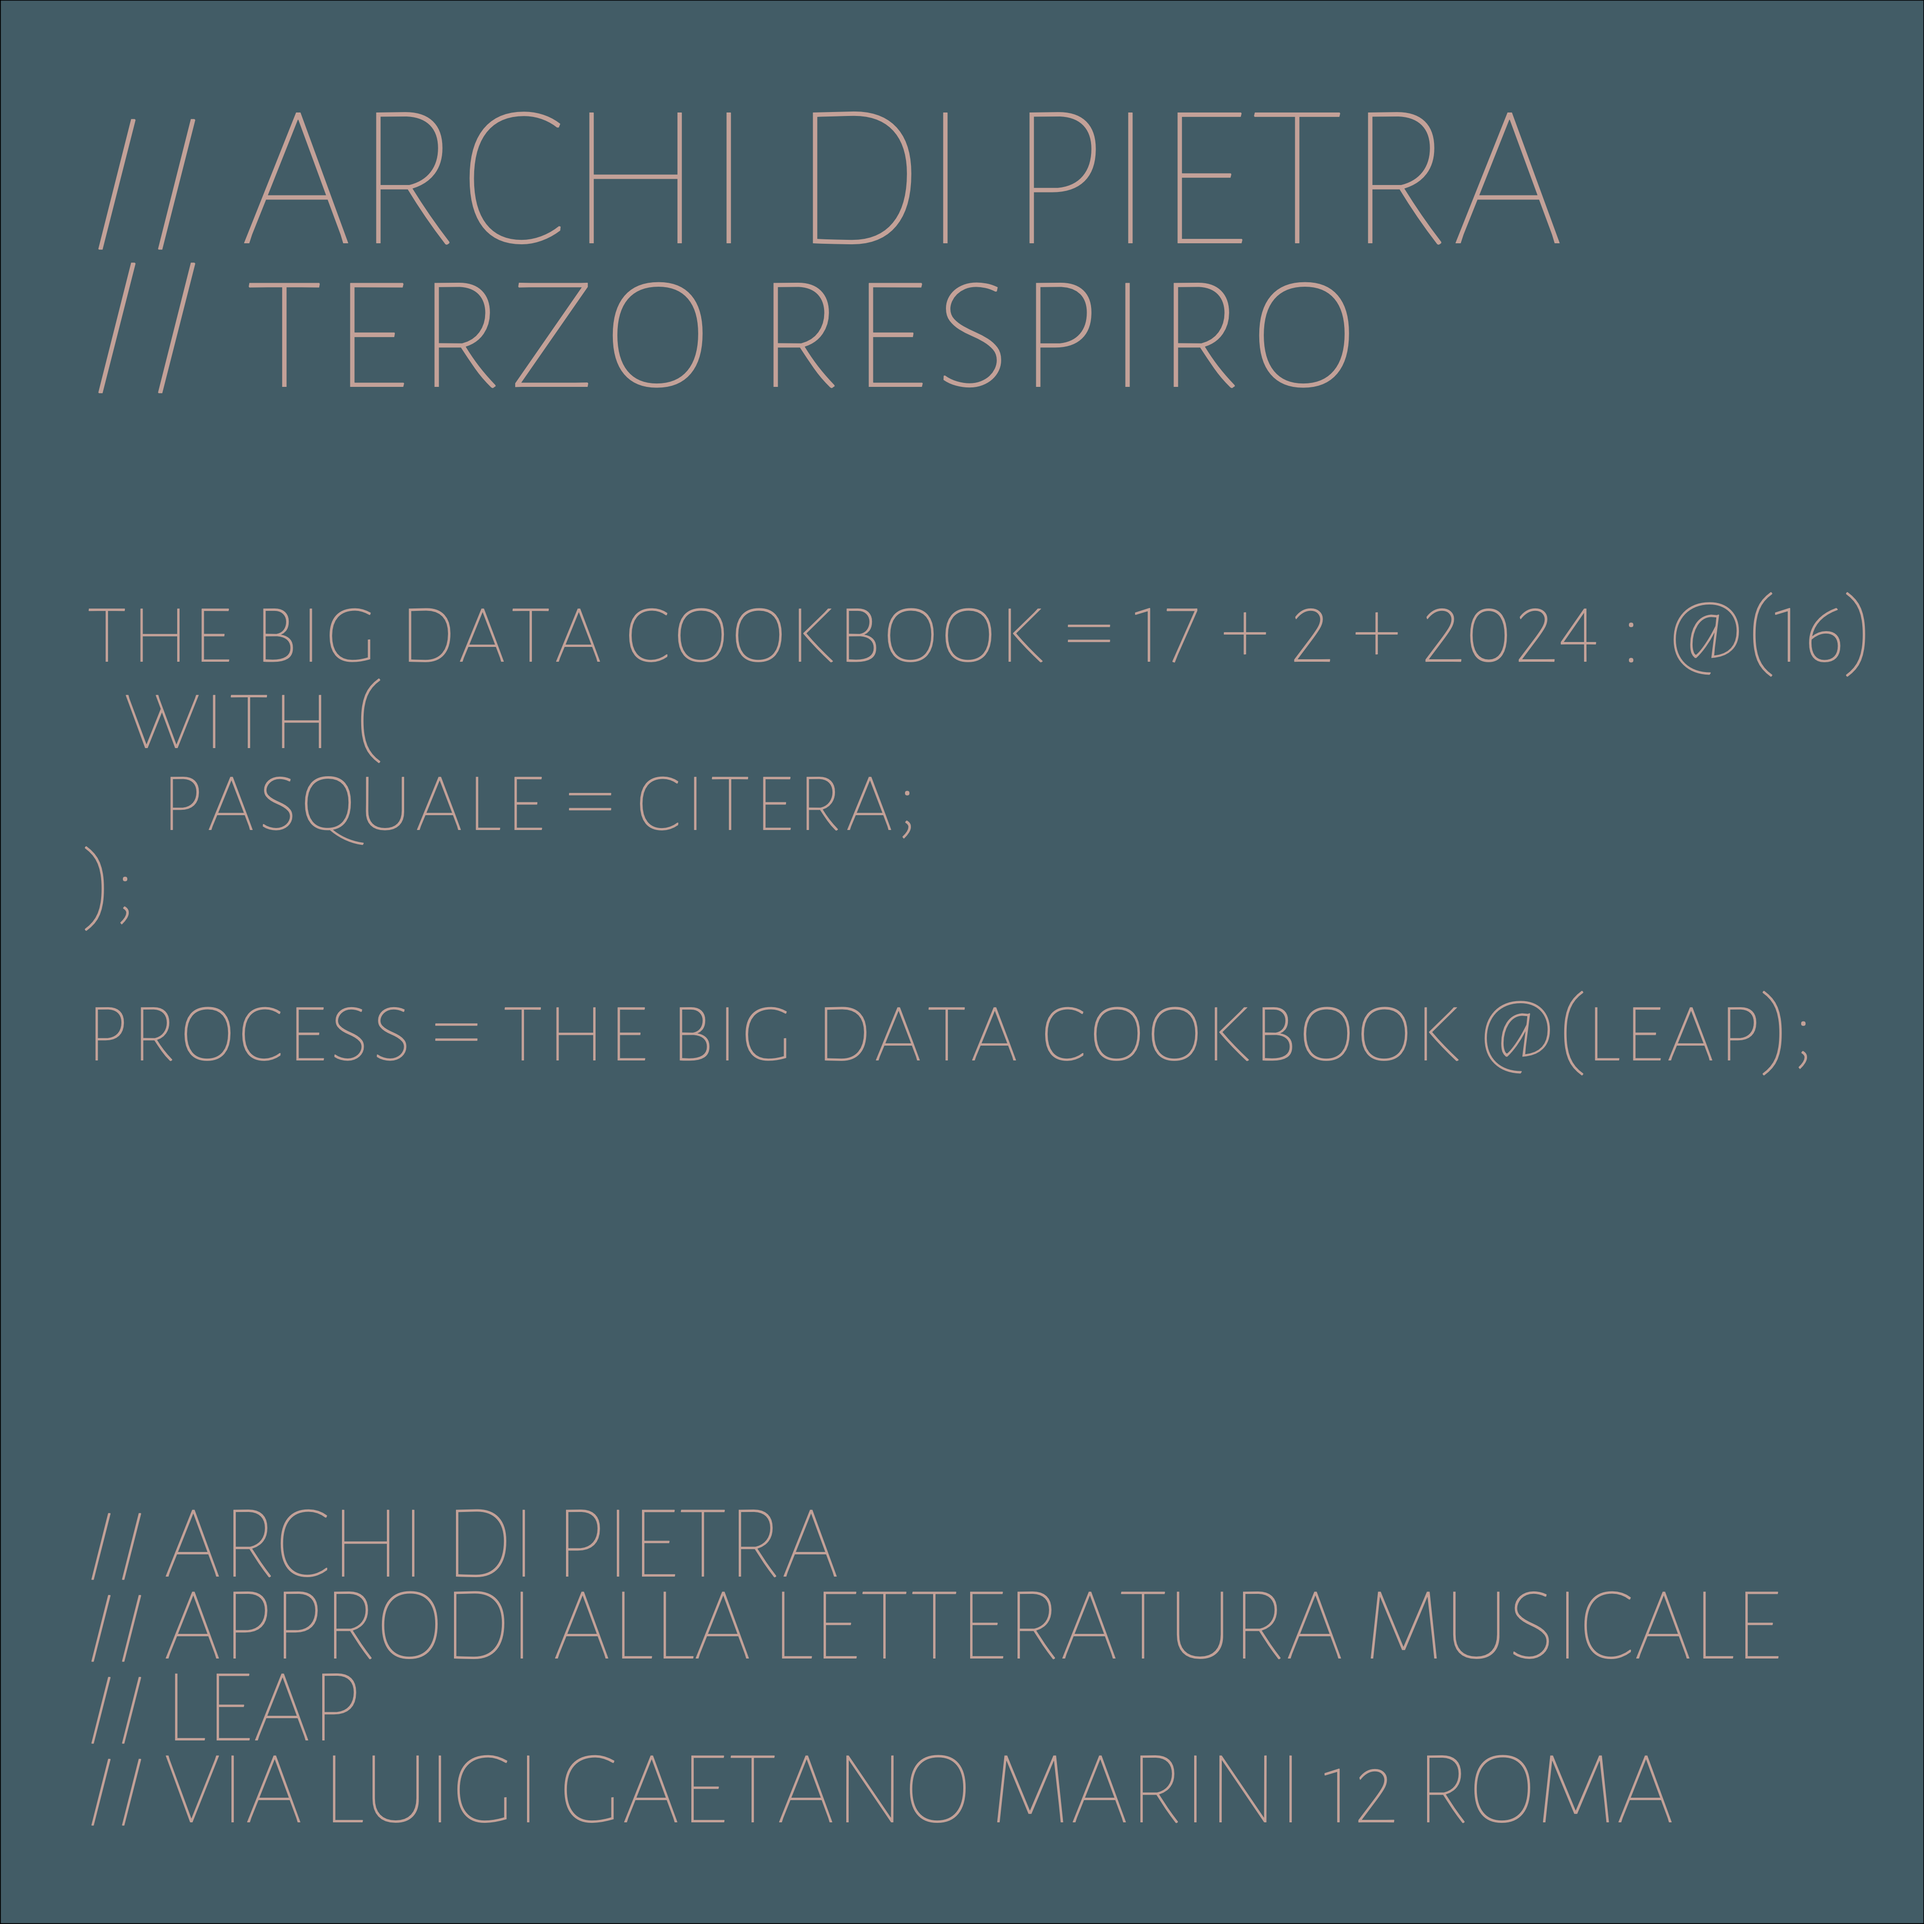
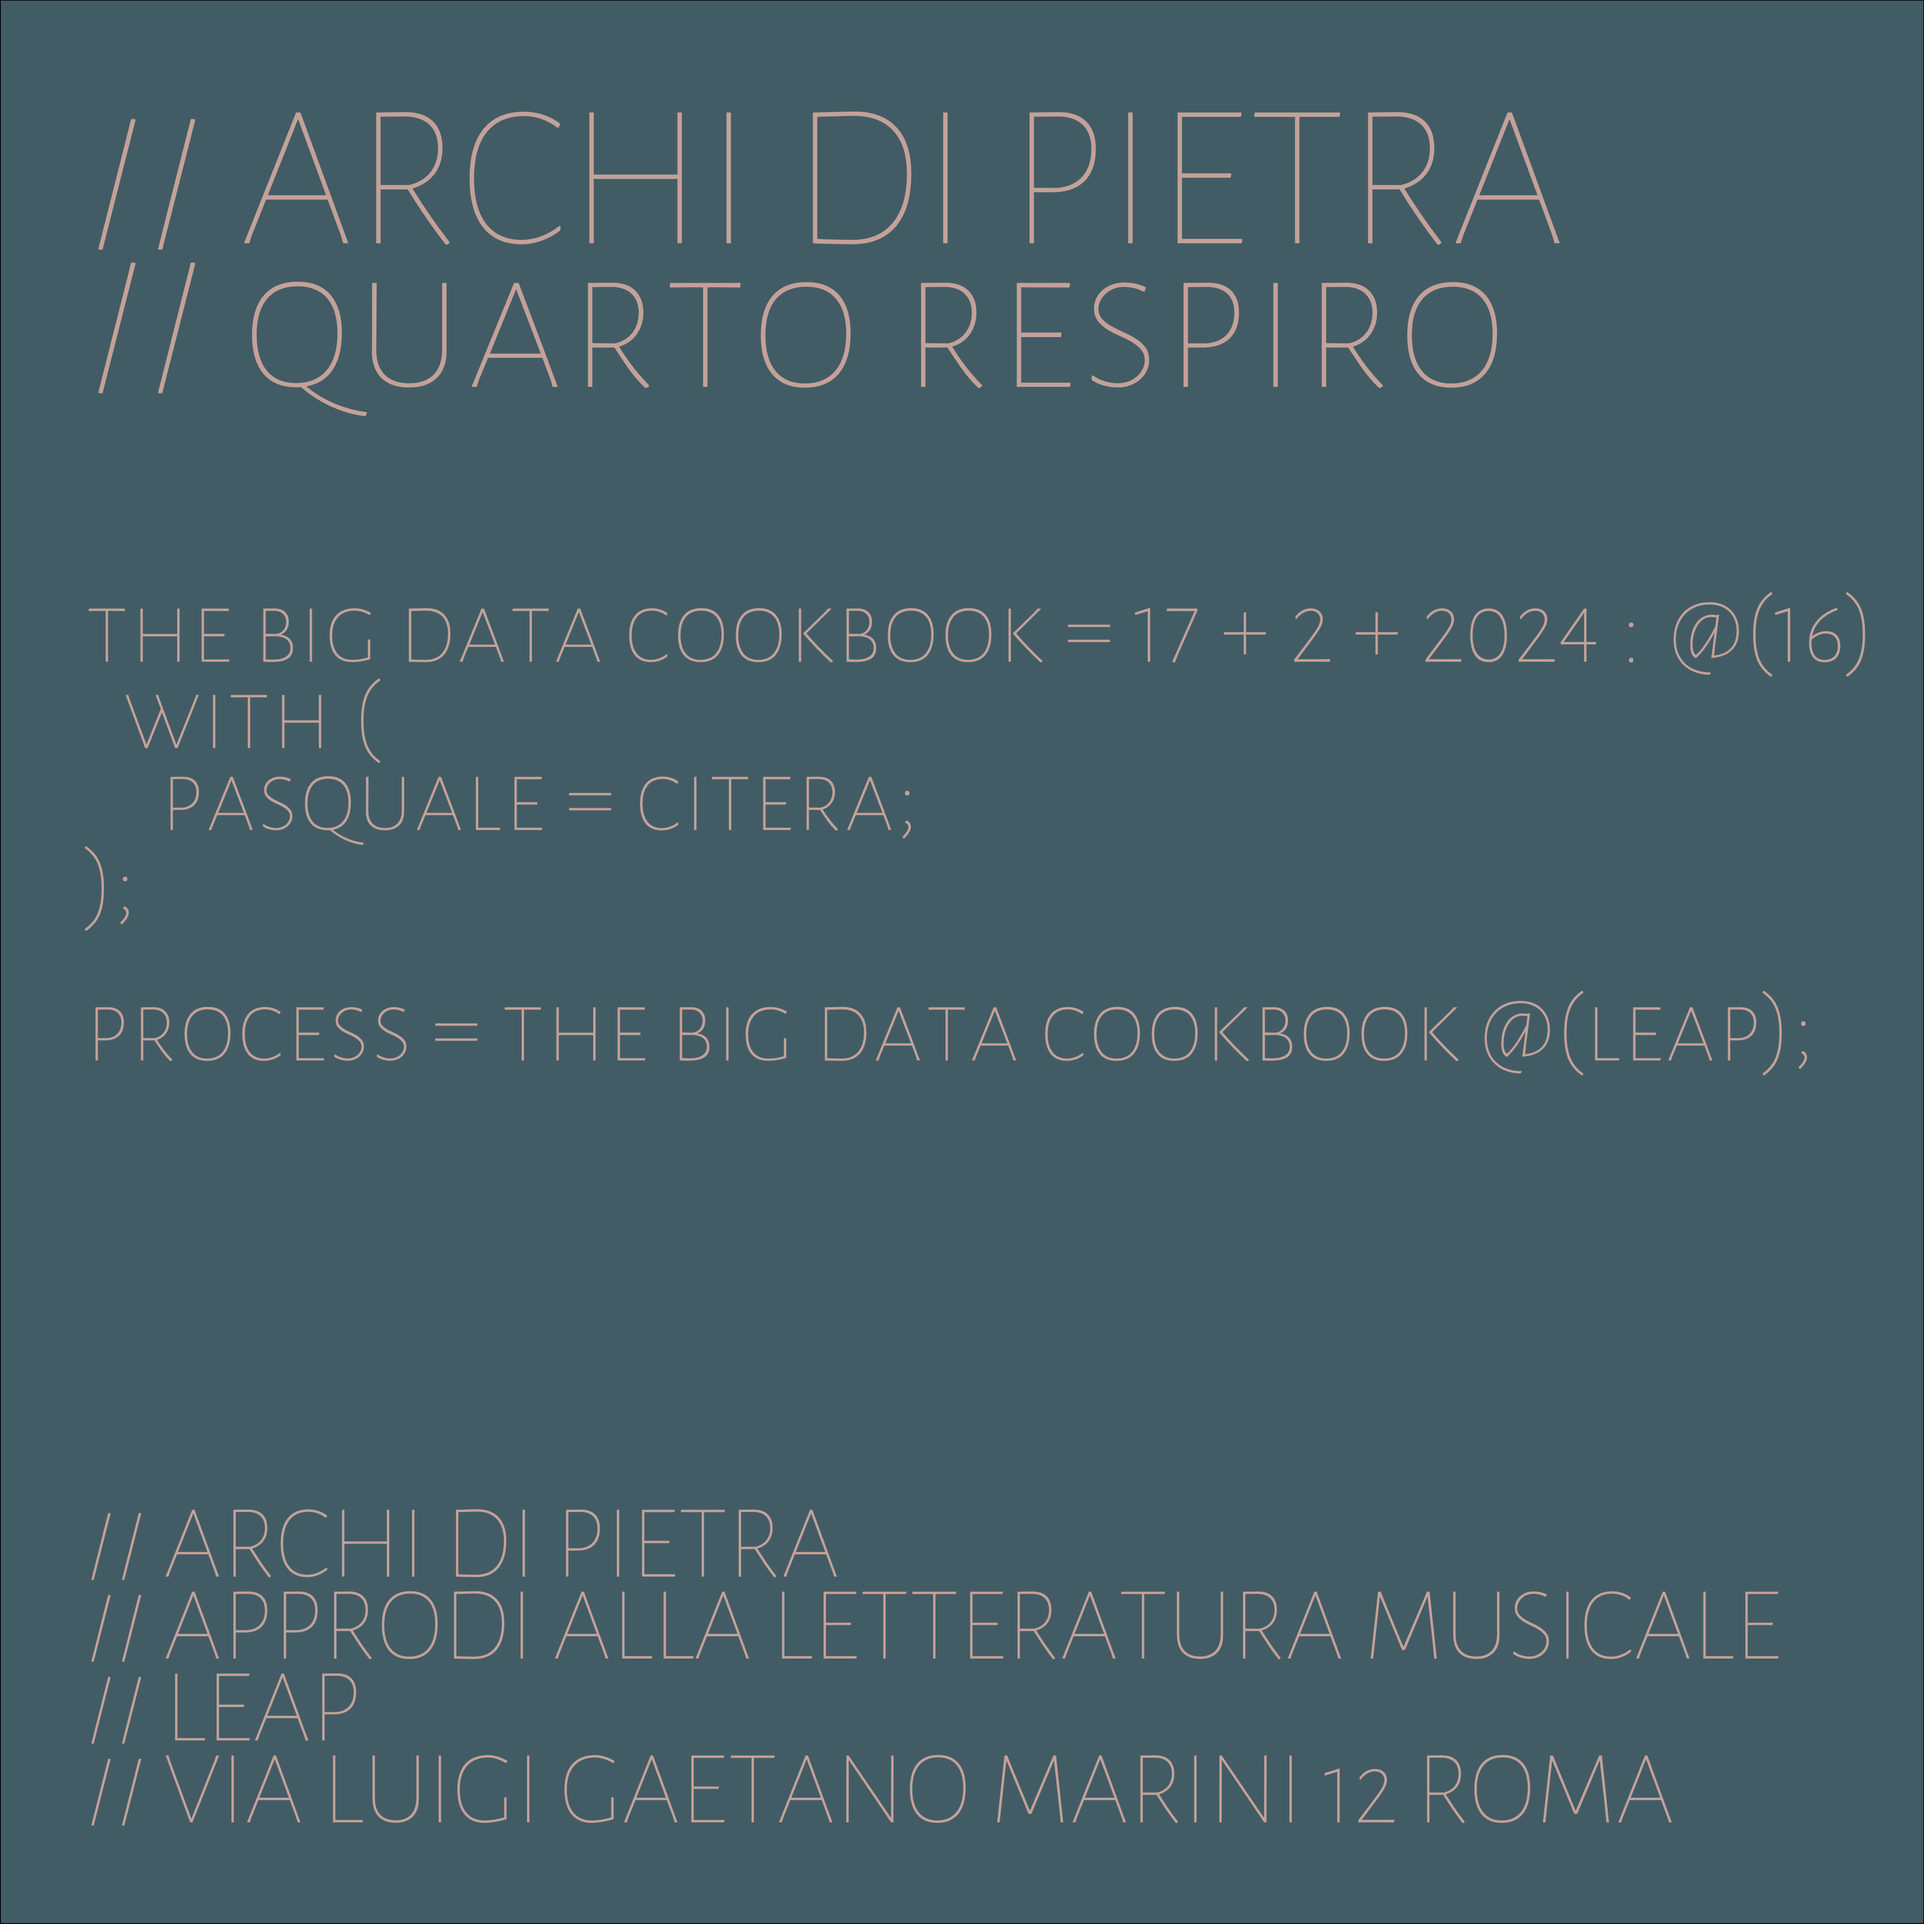
pax quarto

Changed region(s): [[0.1241, 0.1241, 0.7448, 0.2172]]

diff --git a/src/2024-02-17-PAX/2024-02-17-PAX.tex b/src/2024-02-17-PAX/2024-02-17-PAX.tex
@@ -42,7 +42,7 @@
 	] at (1.2,25) [color=d0a399,fill=none] {
 
 // ARCHI DI PIETRA\\
-// terzo respiro\\
+// quarto respiro\\
 };    
     
 	\node[
